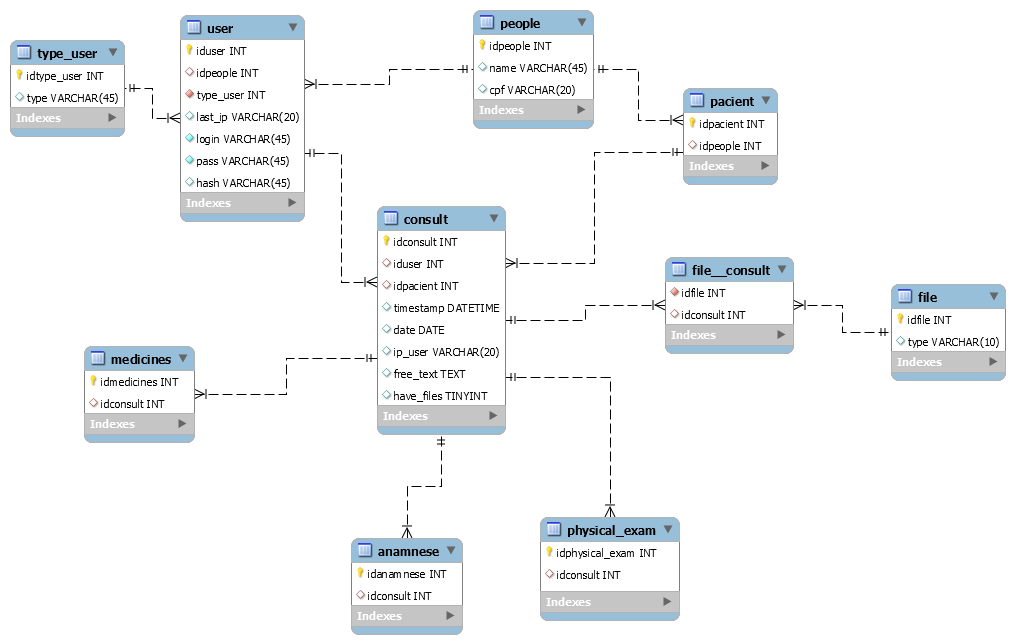
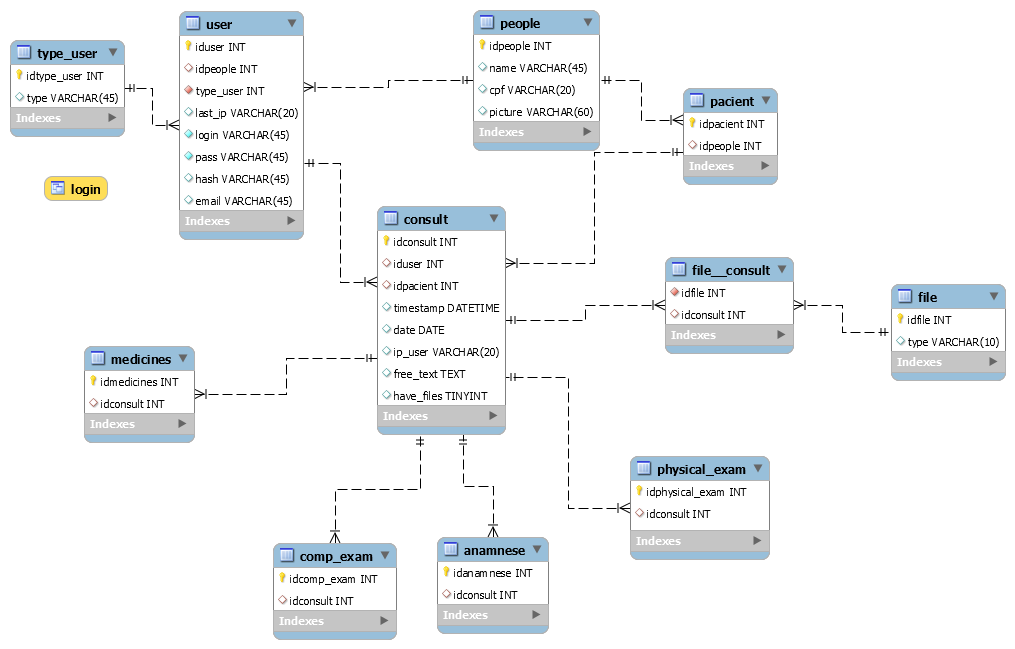
Feat(SQL MODELS)

diff --git a/rest/controller/autenticator.js b/rest/controller/autenticator.js
@@ -96,7 +96,7 @@ var Autenticator = {
 
 		console.log("#=> Login process -- user:"+user)
 	
-		var sql = "CALL login(?,?)";
+		var sql = "SELECT * FROM login WHERE login='?' AND pass='?' ";
 		sql = Mysql.format(sql, [user,pass]);
 
 		Mysql.query(sql, function (err, results) {
